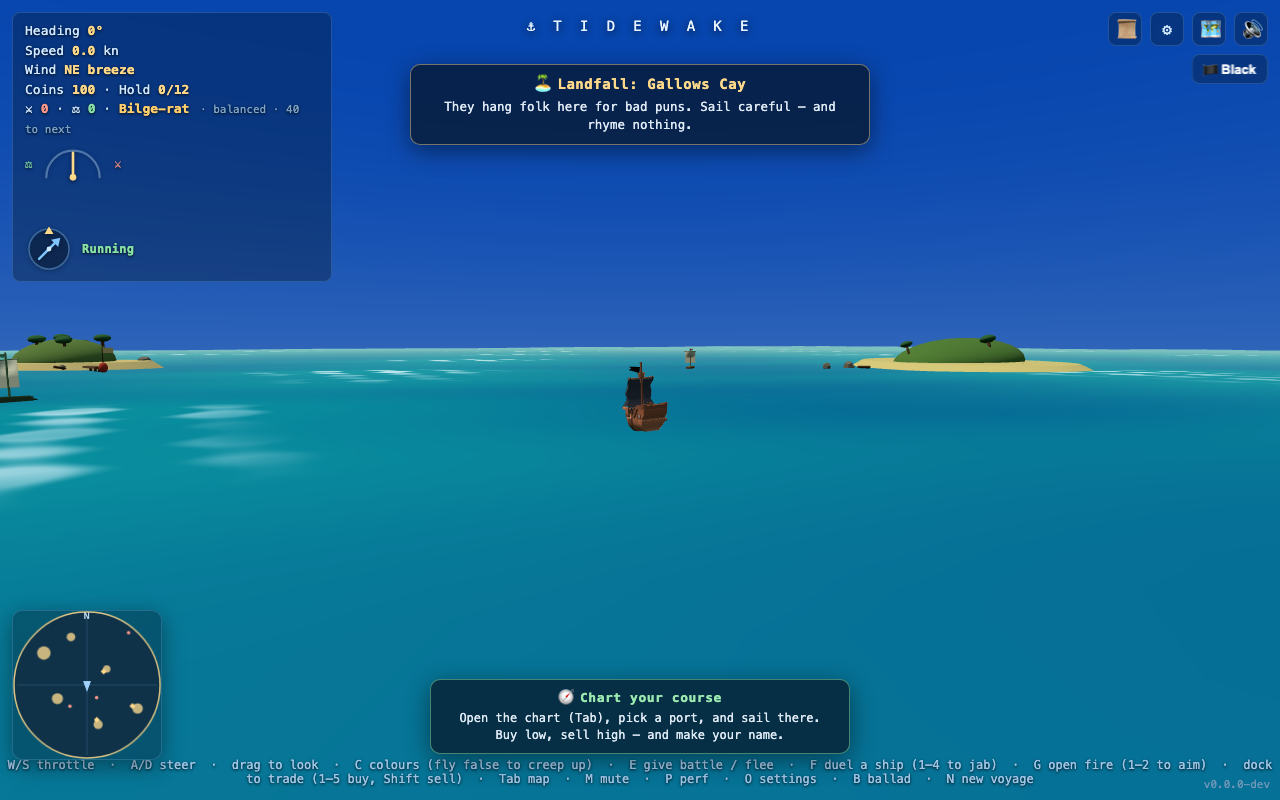
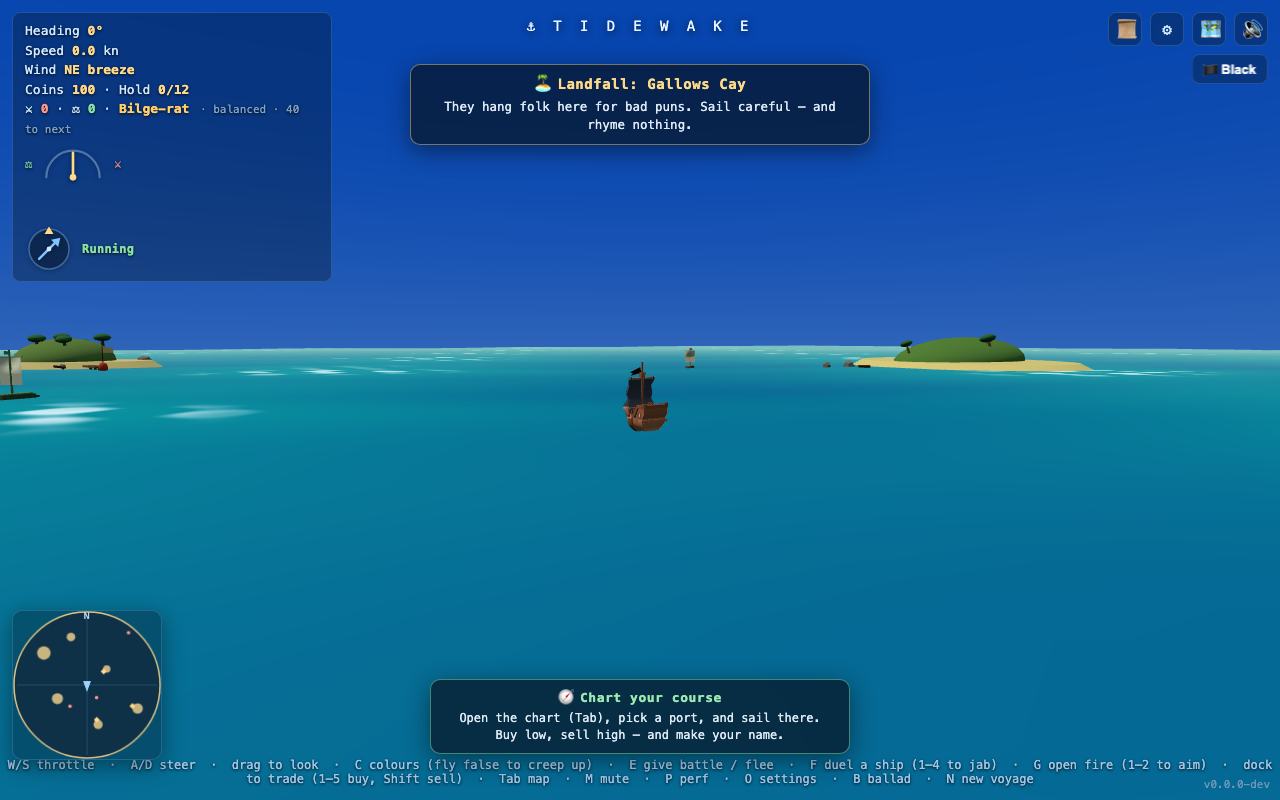
feat(#132): the harmonic reputation needle — the score wears your legend (Slice B)
The SAME signed Infamy↔Standing lean (repLean) that grimes the hull (Slice A)
now continuously recolours the procedural bed's lead MODE (RTPC-style, one knob):
- lean Infamy → the lead leans into a freygish / phrygian-dominant "bite"
  (flat-2 + flat-6 over a major third — the klezmer/Spanish menace colour)
- lean Standing → it brightens to a warm Lydian voicing (the raised 4th)
- balanced → the honest D-major Ionian hornpipe, byte-for-byte untouched

ONE cross-faded gain across the needle: a parallel recolour lead voice crossfades
up (recolourGain → blend) while the neutral lead ducks complementarily (1-blend),
both under seaLayerGain → musicGain so mute AND the port-duck cover it. The bass +
chord/percussive bed stay FIXED in D major (the DL#3 trap). The three modes share
root/third/fifth/octave, so they stay phase-coherent over that fixed bed.

PURE map src/systems/harmonic-mood.js (TDD-first, +9 unit tests) mirrors Slice A's
auraCommitment — same needle curve, deadzoned (repLean is 0 in the neutral band).
window.__tidewake.harmony QA surface + a headless playtest assertion (neutral Ionian
· infamy→freygish · standing→lydian · neutral restores exactly), AudioContext-free
(no gesture → the engine never starts; the cast is set from the lean every frame).

SAVE stays v16 (derived from reputation state, nothing persisted). Perf unchanged
(audio: zero THREE draws) — 48/130 draws · 90390/150k tris. 911 unit tests green,
playtest ✓, zero console errors.

diff --git a/src/music.js b/src/music.js
@@ -29,6 +29,7 @@
 import { resolveMix } from './music-director.js';
 import { varyMelodyPass, variationPlan, SEA_VARIATION_SEED } from './systems/melody-variation.js';
 import { selectCue } from './systems/loop-cues.js';
+import { harmonicMood, IONIAN } from './systems/harmonic-mood.js';
 
 // ---- Pure, browser-free helpers (unit-tested) ----
 
@@ -166,6 +167,9 @@ export function createMusic() {
   let master = null;        // shared master gain from audio.js
   let musicGain = null;     // master music sub-gain under the bus (mute covers it)
   let seaLayerGain = null;  // the sailing theme lives here (mode-aware mix, #94)
+  let recolourGain = null;  // the harmonic-needle recolour lead lives here (#132 Slice B); crossfades up with |lean|
+  let recolourBus = null;   // the recolour lead's pre-gain bus (its own softening lowpass), parallel to leadBus
+  let recolourState = { pole: 'neutral', blend: 0, scale: IONIAN }; // live modal-recolour cast (QA surface; headless-safe)
   let portLayerGain = null; // the tavern/port drone lives here (swells on approach, #94)
   let portLP = null;        // the port drone's lowpass — per-town timbre tint (#69)
   let portTremLfo = null;   // the bellows wheeze LFO — per-town tremolo rate (#69)
@@ -240,7 +244,10 @@ export function createMusic() {
 
   // --- Voices ---
 
-  function voiceLead(time, freq, durSec) {
+  // The lead voice. `bus` defaults to the neutral leadBus (the canonical D-major hornpipe); the
+  // harmonic needle (#132 Slice B) renders a SECOND, identically-shaped voice of the SAME melody into
+  // recolourBus, tuned to the pole's mode — the recolourGain crossfade (not a second timbre) carries it.
+  function voiceLead(time, freq, durSec, bus = leadBus) {
     const peak = 0.16 * (0.55 + 0.45 * intensity); // present at rest, fuller at speed
     const osc = ctx.createOscillator();
     osc.type = 'triangle';
@@ -250,7 +257,7 @@ export function createMusic() {
     env.gain.setValueAtTime(0.0001, time);
     env.gain.exponentialRampToValueAtTime(peak, time + 0.012);   // pluck attack
     env.gain.exponentialRampToValueAtTime(0.0001, end);          // decay/release
-    osc.connect(env).connect(leadBus); // leadBus → seaLayerGain → musicGain
+    osc.connect(env).connect(bus); // leadBus/recolourBus → seaLayerGain → musicGain (mute + port-duck cover it)
     osc.start(time);
     osc.stop(end + 0.02);
   }
@@ -411,7 +418,15 @@ export function createMusic() {
   function fireStep(s, time) {
     if (muted) return; // silent + cheap while muted; the grid clock keeps advancing
     try {
-      for (const n of leadByStep[s]) voiceLead(time, degreeToFreq(n.deg, ROOT), n.durSec);
+      // The harmonic needle (#132 Slice B): when the recolour crossfade is audible, voice the SAME
+      // lead melody a SECOND time in the pole's mode (read live from recolourState.scale) into the
+      // recolourGain. The bass + chord pad below stay FIXED in D major (the DL#3 trap) — only the lead
+      // recolours. Cheap when neutral (blend 0 → skip the extra oscillators entirely).
+      const recolour = recolourState.blend > 0.001 && recolourState.scale && recolourState.scale !== IONIAN;
+      for (const n of leadByStep[s]) {
+        voiceLead(time, degreeToFreq(n.deg, ROOT), n.durSec);
+        if (recolour) voiceLead(time, degreeToFreq(n.deg, ROOT, recolourState.scale), n.durSec, recolourBus);
+      }
       for (const n of bassByStep[s]) voiceBass(time, degreeToFreq(n.deg, ROOT), n.durSec);
       for (const c of chordByStep[s]) {
         voiceChord(time, c.degs.map((d) => degreeToFreq(d, ROOT)), c.durSec);
@@ -474,6 +489,22 @@ export function createMusic() {
       leadLP.frequency.value = 3200; // soften the triangle's edge into a sweeter lead
       leadBus.connect(leadLP).connect(seaLayerGain);
 
+      // The harmonic-needle recolour lead (#132 Slice B): a parallel lead bus → its own softening
+      // lowpass → recolourGain → seaLayerGain. Built SILENT (gain 0 = the honest D-major bed,
+      // untouched at neutral); setMood() crossfades it up with |lean| while the neutral leadBus ducks
+      // complementarily. Sits UNDER seaLayerGain → musicGain, so the mute AND the port-duck both cover it.
+      recolourGain = ctx.createGain();
+      recolourGain.gain.value = 0;
+      recolourGain.connect(seaLayerGain);
+      recolourBus = ctx.createGain();
+      recolourBus.gain.value = 1;
+      const recolourLP = ctx.createBiquadFilter();
+      recolourLP.type = 'lowpass';
+      recolourLP.frequency.value = 3200; // same softening as the neutral lead so they crossfade cleanly
+      recolourBus.connect(recolourLP).connect(recolourGain);
+      // Apply any lean set before the engine came up so the recolour is already cast on the first note.
+      setMood(recolourState);
+
       buildPortLayer();
       // Apply any per-town identity chosen before the engine came up (#69) — so the drone is
       // already in the nearest port's key the instant the audio bus starts.
@@ -494,6 +525,8 @@ export function createMusic() {
       master = null;
       musicGain = null;
       seaLayerGain = null;
+      recolourGain = null;
+      recolourBus = null;
       portLayerGain = null;
       portLP = null;
       portTremLfo = null;
@@ -511,6 +544,25 @@ export function createMusic() {
       const now = ctx.currentTime;
       seaLayerGain.gain.setTargetAtTime(clamp01(sea), now, 0.6);
       portLayerGain.gain.setTargetAtTime(clamp01(port), now, 0.6);
+    } catch {
+      /* a bad frame must never throw */
+    }
+  }
+
+  // The harmonic reputation needle (#132 Slice B): recolour the lead's MODE off the signed reputation
+  // lean. Stores the live cast (so the QA getter + a pre-engine call work headless), then — once the
+  // engine is up — crossfades the ONE needle knob: ramp recolourGain → blend and duck the neutral
+  // leadBus → 1-blend, complementarily, as a smooth setTargetAtTime glide (never a click). The scale
+  // itself swaps only while that gain is near-silent (blend≈0 at neutral), so a pole flip never clashes.
+  // The bass + chord/percussive bed are untouched (the DL#3 trap). Safe before the engine + on junk.
+  function setMood(mood) {
+    const m = mood && Array.isArray(mood.scale) ? mood : { pole: 'neutral', blend: 0, scale: IONIAN };
+    recolourState = { pole: m.pole || 'neutral', blend: clamp01(Number(m.blend) || 0), scale: m.scale };
+    if (!ctx || !recolourGain || !leadBus) return;
+    try {
+      const now = ctx.currentTime;
+      recolourGain.gain.setTargetAtTime(recolourState.blend, now, 0.6);
+      leadBus.gain.setTargetAtTime(clamp01(1 - recolourState.blend), now, 0.6); // a wisp of the honest theme survives
     } catch {
       /* a bad frame must never throw */
     }
@@ -575,6 +627,11 @@ export function createMusic() {
         dockRadius: state?.dockRadius,
       }));
 
+      // Harmonic reputation needle (#132 Slice B): the SAME signed lean (repLean) that grimes the hull
+      // (Slice A) recolours the lead's mode. Pure map → live crossfade. Runs every frame, even headless
+      // (no ctx → stores the cast for the QA surface, no audio), BEFORE the engine-up early return.
+      setMood(harmonicMood(Number(state?.lean) || 0));
+
       if (!ctx || !musicGain || muted) return;
       // Gentle overall swell with intensity, on top of the per-note adaptivity.
       musicGain.gain.setTargetAtTime(BASE_LEVEL * (0.85 + 0.15 * intensity), ctx.currentTime, 0.5);
@@ -611,5 +668,11 @@ export function createMusic() {
     return variationPlan(melodyPattern(), p, { seed: variationSeed });
   }
 
-  return { start, setMute, update, setMix, setTownTheme, stinger, loopCue, lastCue, variation };
+  // The harmonic reputation needle (#132 Slice B) QA surface: the live modal-recolour cast
+  // { pole, blend, scale } the lead is currently wearing — headless-assertable (set by update() from
+  // the lean every frame, even with no AudioContext), so a playtest can swing the ledger and assert
+  // the score recolours (freygish toward Infamy, lydian toward Standing, Ionian at neutral).
+  function mood() { return { pole: recolourState.pole, blend: recolourState.blend, scale: recolourState.scale }; }
+
+  return { start, setMute, update, setMix, setMood, setTownTheme, stinger, loopCue, lastCue, variation, mood };
 }

diff --git a/src/systems/harmonic-mood.js b/src/systems/harmonic-mood.js
@@ -1,0 +1,64 @@
+// The harmonic reputation needle (#132 Slice B, DL #5) — the procedural bed's continuous MODAL RECOLOUR.
+//
+// #126 made the WORLD mirror the Infamy↔Standing pole; Slice A made the player's own SHIP wear it.
+// This makes the SCORE wear it too: the SAME signed reputation lean (repLean) that grimes the hull now
+// continuously recolours the lead's MODE. Drift toward Infamy and the lead leans into a freygish /
+// phrygian-dominant "bite" (the flat-2 + flat-6 over a major third — the klezmer/Spanish menace colour
+// from the Musician's DL#1 wildcard); drift toward Standing and it brightens to a warm Lydian voicing
+// (the raised 4th — airy, luminous). Sit balanced and it's the honest D-major hornpipe, untouched.
+// ONE cross-faded gain across the needle; the bass + chord/percussive bed stays fixed (the DL#3 trap).
+//
+// CREATIVE SPARK (Musician + Sound Engineer): "the score wears your legend." The same hornpipe, same
+// palette, same melody — but lean feared and a flat-second sob slides into the tune like a knife under
+// a cloak; lean honoured and a bright lifted fourth opens the air like a church window. You don't hear a
+// new song when you turn pirate — you hear the SAME song turn on you. RTPC-style: one needle, one knob.
+//
+// PURE on purpose — no WebAudio, no game state. The mapping lives here (unit-tested); the wiring in
+// music.js crossfades a recolour lead voice up as |lean| grows and voices the SCALE this returns. The
+// recolour gain (and the complementary duck of the neutral lead) is the one needle-driven crossfade.
+
+import { MAX_LEAN } from './reputation-grade.js';
+
+// Scale degrees as semitone offsets from the root. IONIAN matches src/music.js MAJOR_SCALE — the
+// neutral bed (the canonical D-major hornpipe). LYDIAN raises the 4th (warm/bright Standing voicing);
+// FREYGISH is phrygian-dominant — flat-2, major-3, flat-6, flat-7 — the Infamy "bite". All three share
+// root / third / fifth / octave, so they layer phase-coherently over the FIXED D-major bass + pad.
+export const IONIAN   = [0, 2, 4, 5, 7, 9, 11];
+export const LYDIAN   = [0, 2, 4, 6, 7, 9, 11];
+export const FREYGISH = [0, 1, 4, 5, 7, 8, 10];
+
+// The crossfade ceiling: even at full commitment a wisp of the honest Ionian theme survives UNDER the
+// recolour, so the bed never fully abandons its identity (it COLOURS, never replaces). The wiring ramps
+// the recolour gain to `blend` and ducks the neutral lead to `1 - blend` — one knob, complementary.
+export const RECOLOUR_MAX = 0.9;
+
+const clamp01 = (x) => (x < 0 ? 0 : x > 1 ? 1 : x);
+
+/**
+ * The cross-faded recolour amount 0..RECOLOUR_MAX from the signed, already-eased-deadzoned-and-bounded
+ * lean (reputationLean()): |lean| spans [0, MAX_LEAN]. Mirrors auraCommitment so the AUDIBLE twin of
+ * Slice A rides the exact same needle curve. Junk/NaN → 0.
+ * @param {number} lean signed lean from reputationLean()
+ * @returns {number} 0..RECOLOUR_MAX
+ */
+export function recolourBlend(lean) {
+  if (!Number.isFinite(lean)) return 0;
+  return clamp01(Math.abs(lean) / MAX_LEAN) * RECOLOUR_MAX;
+}
+
+/**
+ * The live modal-recolour state for a signed reputation lean. Returns the pole, the SCALE the recolour
+ * lead should voice (IONIAN at neutral, FREYGISH toward Infamy, LYDIAN toward Standing), and the cross-
+ * faded `blend` [0, RECOLOUR_MAX] the wiring ramps the recolour gain to (the neutral lead ducks to
+ * 1-blend complementarily). lean 0 (or junk) → the neutral bed: blend 0, IONIAN, the untouched hornpipe.
+ * @param {number} lean signed lean: >0 = pirate (the bite), <0 = governor (the bright), 0 = neutral
+ * @returns {{pole:'pirate'|'governor'|'neutral', blend:number, scale:number[]}}
+ */
+export function harmonicMood(lean) {
+  const l = Number.isFinite(lean) ? lean : 0;
+  const blend = recolourBlend(l);
+  if (l === 0 || blend === 0) return { pole: 'neutral', blend: 0, scale: IONIAN };
+  return l > 0
+    ? { pole: 'pirate', blend, scale: FREYGISH }
+    : { pole: 'governor', blend, scale: LYDIAN };
+}

diff --git a/src/main.js b/src/main.js
@@ -1355,7 +1355,11 @@ systems.register({ name: 'town-music', order: 300, update: (f) => {
   }
 } });
 // — mode-aware music bed (#94): WHERE the player is (mode + nearest-port distance) drives the crossfade.
-systems.register({ name: 'music', order: 310, update: (f) => music.update({ speed: f.state.speed, maxSpeed: sailing.MAX_SPEED, mode: mode.current, portDistance: f.harbourDistance, dockRadius: DOCK_RADIUS }) });
+// — mode-aware music bed (#94) + the harmonic reputation needle (#132 Slice B): WHERE the player is
+//   drives the sea/port crossfade, and the SAME signed lean (repLean) reputation-grade wrote this frame
+//   recolours the lead's MODE — Infamy → a freygish "bite", Standing → a warm Lydian voicing, neutral →
+//   the honest D-major hornpipe. Order 310 (after reputation-grade@120), so repLean is fresh.
+systems.register({ name: 'music', order: 310, update: (f) => music.update({ speed: f.state.speed, maxSpeed: sailing.MAX_SPEED, mode: mode.current, portDistance: f.harbourDistance, dockRadius: DOCK_RADIUS, lean: repLean }) });
 
 function update(dt, t) {
   // The WHOLE per-frame loop is the systems registry now (#130, DL #5). Every system registered
@@ -1814,6 +1818,12 @@ window.__tidewake = {
   // key. `seaVariationFor(pass)` is a pure lookup for ANY pass (headless-safe; no AudioContext).
   get seaVariation() { return music.variation(); },
   seaVariationFor(pass) { return music.variation(pass); },
+  // The harmonic reputation needle (#132 Slice B, DL #5) QA surface: the live modal recolour the lead
+  // is wearing off the SAME signed lean as Slice A's hull — { pole, blend, scale }. Headless-safe (the
+  // music system sets it from repLean every frame with no AudioContext), so a playtest can swing the
+  // ledger and assert the SCORE recolours: freygish "bite" toward Infamy, warm Lydian toward Standing,
+  // the untouched D-major Ionian at neutral. The crossfade through musicGain means mute still covers it.
+  get harmony() { return music.mood(); },
   // Invisible onboarding (#60) QA surface: the live progress flags, the next step, and
   // whether the seeded goal card is currently on screen.
   get onboarding() {